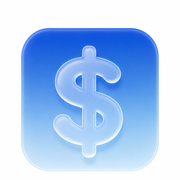
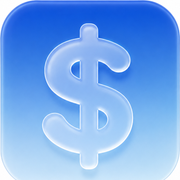
fix: 修复 iPhone 主屏幕图标白边问题
- 从 logo-source.png 精确裁剪蓝色图标区域（787x787）
- 使用 fill 模式缩放，蓝色完全铺满画布，无白色背景
- apple-touch-icon.png (180x180) 蓝色满版
- PWA icons (192/512) 蓝色满版
- maskable icons 保持透明背景适配 Android
- Service Worker 缓存版本 v2 → v3 强制刷新

diff --git a/public/sw.js b/public/sw.js
@@ -1,7 +1,7 @@
 // 鸿信ERP Service Worker
 // 仅缓存静态资源，不缓存敏感业务数据
 
-const CACHE_NAME = 'hongxin-erp-v2';
+const CACHE_NAME = 'hongxin-erp-v3';
 const STATIC_ASSETS = [
   '/manifest.webmanifest',
   '/icon-192x192.png',
